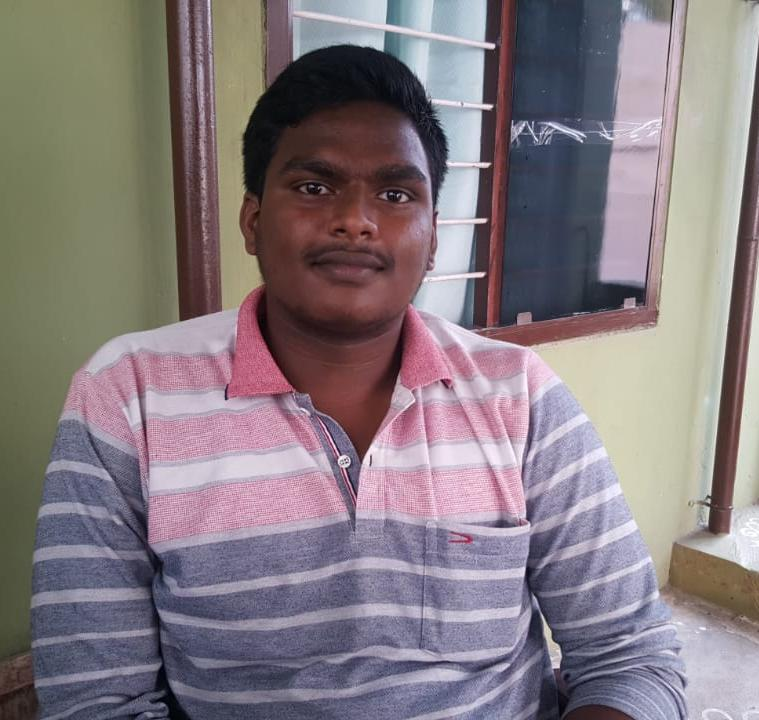
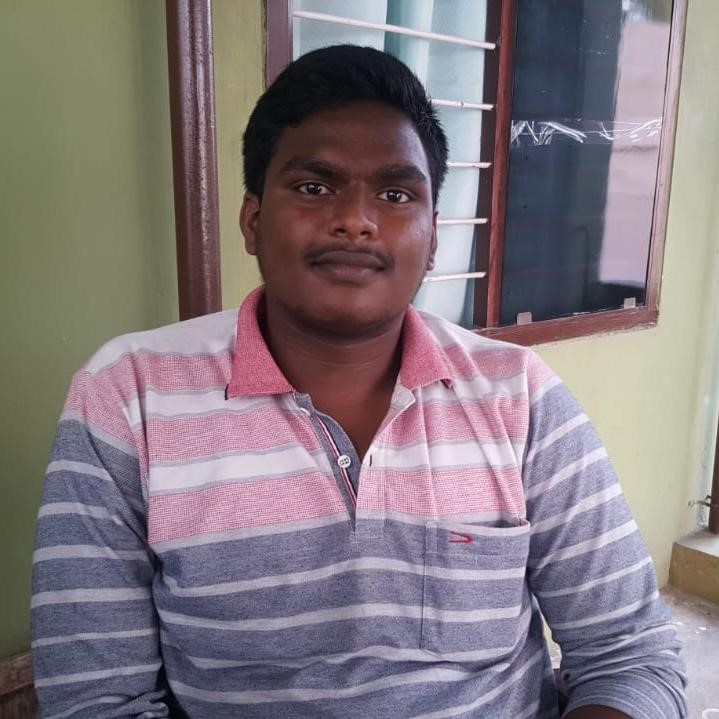
v3

diff --git a/index.html b/index.html
@@ -13,6 +13,7 @@
 <link rel="stylesheet" type="text/css" href="plugins/OwlCarousel2-2.2.1/animate.css">
 <link rel="stylesheet" type="text/css" href="styles/main_styles.css">
 <link rel="stylesheet" type="text/css" href="styles/responsive.css">
+<link rel="stylesheet" type="text/css" href="styles/elements_styles.css">
 </head>
 <body>
 
@@ -141,21 +142,40 @@
 				<!-- Popular Course Item -->
 				<div class="col-lg-6 course_box">
 					<div class="card">
-						<img class="card-img-top" src="images/course_1.jpg" alt="https://unsplash.com/@kellybrito">
+						<img class="card-img-top" src="images/w2.jpeg" alt="https://unsplash.com/@kellybrito">
 						<div class="card-body text-center">
-							<div class="card-title"><a href="https://forms.gle/2WWgfUB58zKQ63s69">Enroll now as a Student</a></div>
-                            							<div class="card-text">   </div>
-
+	<div class="buttons">
+			<div class="container">
+				<div class="row">
+					<div class="col">
+						<div class="buttons_container">
+							<div  class="button button_color_1 text-center trans_200"><a href="https://forms.gle/T57ckBkD4fgJX2Rk7">Student Enroll</a></div>
 						</div>
+					</div>
+				</div>
+			</div>	
+		</div>
+
+ 						</div>
 					</div>
 				</div>
 				<!-- Popular Course Item -->
 				<div class="col-lg-6 course_box">
 					<div class="card">
-						<img class="card-img-top" src="images/course_3.jpg" alt="https://unsplash.com/@dsmacinnes">
-						<div class="card-body text-center">
-							<div class="card-title"><a href="https://forms.gle/JQgeR3BHF7exiFLk7">Enroll now as a Tutor</a></div>
-                          <div class="card-text">   </div>
+						<img class="card-img-top" src="images/w1.jpeg" alt="https://unsplash.com/@dsmacinnes">
+						<div class="card-body text-center"> 
+	<div class="buttons">
+			<div class="container">
+				<div class="row">
+					<div class="col">
+						<div class="buttons_container">
+							<div  class="button button_color_1 text-center trans_200"><a href="https://forms.gle/JQgeR3BHF7exiFLk7">Tutor Enroll</a></div>
+						</div>
+					</div>
+				</div>
+			</div>	
+		</div>
+                     
 						</div>
 					</div>
 				</div>
@@ -244,13 +264,13 @@
 							<div class="owl-item">
 								<div class="testimonials_item text-center">
 									<div class="quote">“</div>
-									<p class="testimonials_text">Home tuition helped me a lot to reach my score. My tutor made my work easy and fast. Thank u tuitions king.</p>
+									<p class="testimonials_text">My tutor made my dream come true with my result in jee mains. My parents are very happy with my performance I am lucky to have my supporting tutor</p>
 									<div class="testimonial_user">
 										<div class="testimonial_image mx-auto">
-											<img src="images/g.jpg" alt="">
+											<img src="images/Ashrit%20Sharma%20,%20Intermediate%20MPC.jpeg" alt="">
 										</div>
-										<div class="testimonial_name">G.Yogita</div>
-										<div class="testimonial_title">10th SSC(cbse) 10/10</div>
+										<div class="testimonial_name">Ashrit </div>
+										<div class="testimonial_title">Jee mains qualified </div>
 									</div>
 								</div>
 							</div>
@@ -258,13 +278,14 @@
 							<div class="owl-item">
 								<div class="testimonials_item text-center">
 									<div class="quote">“</div>
-									<p class="testimonials_text">I am week in physics before I took a home tuition .but later home tuition for physics  made me stronger . Best tutor</p>
+									<p class="testimonials_text">I had backlogs for all 3 years. We got suggested a tutor from tuitions king
+I took a demo class and I got a best tutor I cleared all my subjects at a time. I didn't expect. They made my work easy  .i am lucky</p>
 									<div class="testimonial_user">
 										<div class="testimonial_image mx-auto">
-											<img src="images/g.jpg" alt="">
+											<img src="images/WhatsApp%20Image%202021-01-26%20at%2015.04.04.jpeg" alt="">
 										</div>
-										<div class="testimonial_name">Sathvi</div>
-										<div class="testimonial_title">Inter983</div>
+										<div class="testimonial_name">Vivek  varma</div>
+										<div class="testimonial_title">Diploma civil</div>
 									</div>
 								</div>
 							</div>
@@ -272,13 +293,13 @@
 							<div class="owl-item">
 								<div class="testimonials_item text-center">
 									<div class="quote">“</div>
-									<p class="testimonials_text">My tutor helped me a lot. I am satisfied with my score. This helped me to get good rank in my examination.</p>
+									<p class="testimonials_text">best tutoring service. My tutor is very knowledgeable he helped me out to clear my backlog .</p>
 									<div class="testimonial_user">
 										<div class="testimonial_image mx-auto">
-											<img src="images/g.jpg" alt="">
+											<img src="images/WhatsApp%20Image%202021-01-26%20at%2014.56.47.jpeg" alt="">
 										</div>
-										<div class="testimonial_name">T.Navya Sree</div>
-										<div class="testimonial_title">Emcet 300rank</div>
+										<div class="testimonial_name">Rahul</div>
+										<div class="testimonial_title">Btech ECE</div>
 									</div>
 								</div>
 							</div>
@@ -286,28 +307,13 @@
 							<div class="owl-item">
 								<div class="testimonials_item text-center">
 									<div class="quote">“</div>
-									<p class="testimonials_text">Tuition king is the best home tutoring service they provided me a best tutor. Very friendly n knowledgeable.</p>
+									<p class="testimonials_text">I got 95percentage in bsc only because of help resived  from tuitions king .i got best tutor for all 3 years. I suggest this tutions king for all</p>
 									<div class="testimonial_user">
 										<div class="testimonial_image mx-auto">
-											<img src="images/b.jpg" alt="">
+											<img src="images/Akhil%20Intermediate%20MPC.jpeg" alt="">
 										</div>
-										<div class="testimonial_name">H.Siva Kumar</div>
-										<div class="testimonial_title">IIIT  qualified</div>
-									</div>
-								</div>
-							</div>
-                  	<!-- Testimonials Item -->
-							<div class="owl-item">
-								<div class="testimonials_item text-center">
-									<div class="quote">“</div>
-									<p class="testimonials_text">I got a tutor for my son 
-For navodaya entrance examination he helped my son to get qualified in his exam. My son got qualified to navodaya. We r very happy with the result</p>
-									<div class="testimonial_user">
-										<div class="testimonial_image mx-auto">
-											<img src="images/b.jpg" alt="">
-										</div>
-										<div class="testimonial_name">Vishnu.P</div>
-										<div class="testimonial_title">Navodaya qualified</div>
+										<div class="testimonial_name">Akhil</div>
+										<div class="testimonial_title">Bsc </div>
 									</div>
 								</div>
 							</div>

diff --git a/contact.html b/contact.html
@@ -10,6 +10,8 @@
 <link href="plugins/fontawesome-free-5.0.1/css/fontawesome-all.css" rel="stylesheet" type="text/css">
 <link rel="stylesheet" type="text/css" href="styles/contact_styles.css">
 <link rel="stylesheet" type="text/css" href="styles/contact_responsive.css">
+    <link rel="stylesheet" type="text/css" href="styles/elements_styles.css">
+<link rel="stylesheet" type="text/css" href="styles/elements_responsive.css">
 </head>
 <body>
 
@@ -126,23 +128,29 @@
 						<h2>9)24/7 customer service suport</h2>
                         
                         
-                      
-<button  href="contact.html" width="1000" height="25" background-color:#4CAF50>Whatsapp Us</button>
 
                         
-                
-						<!--	<a href="https://api.whatsapp.com/send?phone=7569562240&text=I%20need%20more%20details%20about%20the%20course" class="primary-btn text-uppercase">Whatsapp Us</a>-->
+		<div class="buttons">
+			<div class="container">
+					<div class="col">
+						<div class="buttons_container">
+							<div class="button button_color_1 text-center trans_200"><a href="https://api.whatsapp.com/send?phone=7569562240&text=Hi%20I%20need%20help%20with%20my%20subjects%20to%20reach%20my%20score">Whatsapp Us</a></div>
+						</div>
+					</div>
+			</div>	
+		</div>
+                        
+                        
+                        
 
 					</div>
 				</div>
 			</div>
 
 			<!-- Google Map -->
-
-
 		</div>
 	</div>
-
+    
 	<!-- Footer -->
 
 	<footer class="footer">
